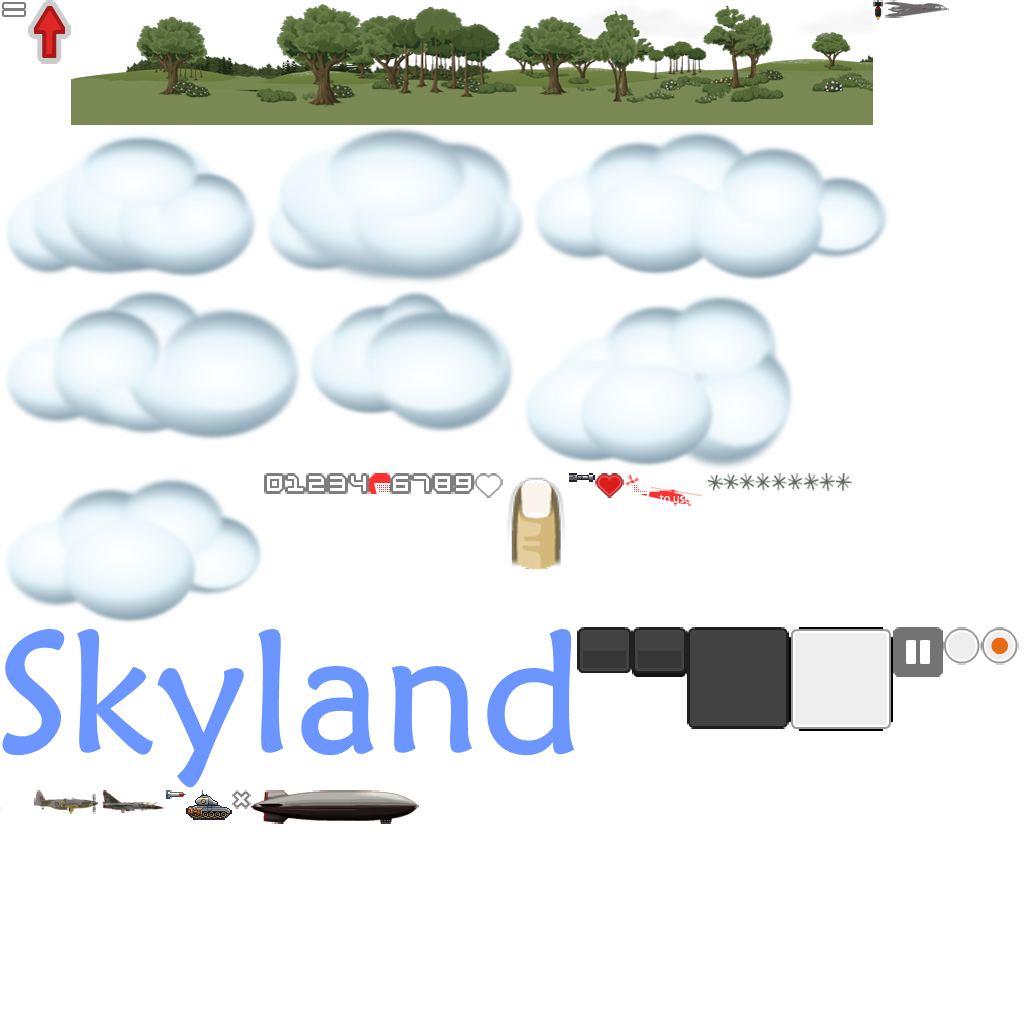
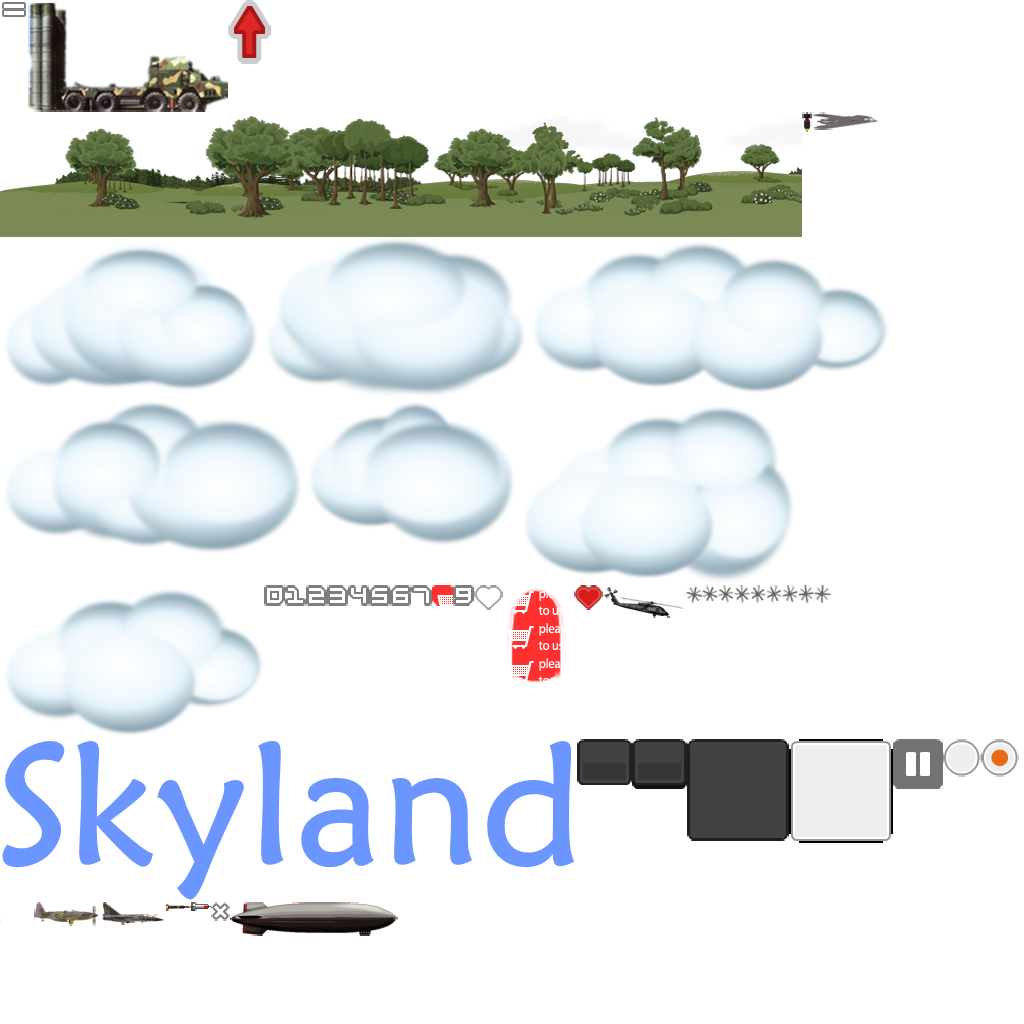
更新启动log,更新导弹发射车及导弹图片，更改导弹发射方式。

diff --git a/Skyland/core/src/com/skylandgdx/main/SkylandAssets.java b/Skyland/core/src/com/skylandgdx/main/SkylandAssets.java
@@ -31,7 +31,7 @@ public class SkylandAssets
     public static Texture textureBlank;
 
     public static TextureRegion textureBackground;
-    public static TextureRegion textureLogo;
+    public static Texture textureLogo;
 
     public static NinePatch textureHudButtonA;
     public static NinePatch textureHudButtonN;
@@ -103,13 +103,15 @@ public class SkylandAssets
         SkylandAssets.textureBlank = new Texture(Gdx.files.internal("images/blank.png"));
         SkylandAssets.textureBlank.setWrap(Texture.TextureWrap.Repeat, Texture.TextureWrap.Repeat);
 
+        SkylandAssets.textureLogo = new Texture(Gdx.files.internal("images/bg_log.png"));
+        SkylandAssets.textureLogo.setWrap(Texture.TextureWrap.Repeat, Texture.TextureWrap.Repeat);
         // texture atlas
      //   TextureAtlas atlas = new TextureAtlas(Gdx.files.internal("images/images.atlas"));
         TextureAtlas atlas = new TextureAtlas(Gdx.files.internal("images/image.txt"));
         
         // textures
         SkylandAssets.textureBackground = atlas.findRegion("bg");
-        SkylandAssets.textureLogo = atlas.findRegion("logo");
+      //  SkylandAssets.textureLogo = atlas.findRegion("logo");
         
         SkylandAssets.textureHudDigits = atlas.findRegions("digit");
         SkylandAssets.textureHudX = atlas.findRegion("x");
@@ -135,8 +137,8 @@ public class SkylandAssets
         );
 
         SkylandAssets.textureGun = atlas.findRegion("gun");
-        SkylandAssets.textureShell = atlas.findRegion("shell");
-        SkylandAssets.textureTank = atlas.findRegion("tank");
+        SkylandAssets.textureShell = atlas.findRegion("rocket");
+        SkylandAssets.textureTank = atlas.findRegion("S300");
 
         SkylandAssets.texturePlane1 = atlas.findRegion("plane1");
         SkylandAssets.texturePlane2 = atlas.findRegion("plane2");

diff --git a/Skyland/core/src/com/skylandgdx/game/entities/StartingScreen.java b/Skyland/core/src/com/skylandgdx/game/entities/StartingScreen.java
@@ -3,6 +3,7 @@ package com.skylandgdx.game.entities;
 import com.badlogic.gdx.graphics.Color;
 import com.badlogic.gdx.graphics.g2d.BitmapFont;
 import com.badlogic.gdx.graphics.g2d.SpriteBatch;
+import com.skylandgdx.game.entities.decorations.Cloud;
 import com.skylandgdx.lib.*;
 import com.skylandgdx.lib.input.IGameInput;
 import com.skylandgdx.main.SkylandAssets;
@@ -60,13 +61,22 @@ public class StartingScreen extends GameEntityMenu
     {
         if (layer == GameLayers.LayerHud)
         {
+        
             batch.setColor(new Color(1, 1, 1, logoTransparency));
-            batch.draw(
+           /* batch.draw(
                     SkylandAssets.textureLogo,
                     (GameSettings.getCameraWidth() - SkylandAssets.textureLogo.getRegionWidth()) / 2,
                     (GameSettings.getCameraHeight() - SkylandAssets.textureLogo.getRegionHeight()) / 2 + 50,
                     SkylandAssets.textureLogo.getRegionWidth(),
                     SkylandAssets.textureLogo.getRegionHeight()
+            );*/
+            float scale = 1f;
+            batch.draw(
+                    SkylandAssets.textureLogo,
+                    0,0,
+                    scale *SkylandAssets.textureLogo.getWidth(),
+                    scale *SkylandAssets.textureLogo.getHeight()
+                    
             );
             SkylandAssets.fontPrimeRegular.setColor(new Color(1, 1, 1, transparency));
             SkylandAssets.fontPrimeRegular.drawWrapped(

diff --git a/Skyland/core/src/com/skylandgdx/game/entities/tank/Tank.java b/Skyland/core/src/com/skylandgdx/game/entities/tank/Tank.java
@@ -49,10 +49,10 @@ public class Tank extends GameEntity
         tankRegion = new TextureRegion(SkylandAssets.textureTank);
         gunRegion = new TextureRegion(SkylandAssets.textureGun);
 
-        tankWidth = tankRegion.getRegionWidth();
-        tankHeight = tankRegion.getRegionHeight();
-        gunWidth = gunRegion.getRegionWidth();
-        gunHeight = gunRegion.getRegionHeight();
+        tankWidth = tankRegion.getRegionWidth()/2;
+        tankHeight = tankRegion.getRegionHeight()/2;
+        gunWidth = gunRegion.getRegionWidth()*0;
+        gunHeight = gunRegion.getRegionHeight()*0;
         tankPolygon = new Polygon(new float[]{
                 0, 0,
                 tankWidth, 0,
@@ -136,7 +136,7 @@ public class Tank extends GameEntity
         }
 
         turnedForward = aimPos.x >= gunOriginPos.x;
-        gunOriginPos.x = tankPos.x + tankWidth / 2;
+        gunOriginPos.x = tankPos.x + tankWidth*(turnedForward ? 0 : 1);//设置导弹起始点X坐标
         gunMuzzlePos.x = gunOriginPos.x + gunWidth * (turnedForward ? 1 : -1);
         gunMuzzlePos.y = gunOriginPos.y;
 

diff --git a/Skyland/core/src/com/skylandgdx/lib/TGradient.java b/Skyland/core/src/com/skylandgdx/lib/TGradient.java
@@ -5,11 +5,6 @@ import com.badlogic.gdx.graphics.g2d.SpriteBatch;
 import com.badlogic.gdx.graphics.g2d.TextureRegion;
 import com.skylandgdx.main.SkylandAssets;
 
-/**
- * User: trakos
- * Date: 14.11.13
- * Time: 07:32
- */
 public class TGradient
 {
     static float[] vertices = new float[20];

diff --git a/Skyland/core/src/com/skylandgdx/lib/GameLayers.java b/Skyland/core/src/com/skylandgdx/lib/GameLayers.java
@@ -1,10 +1,5 @@
 package com.skylandgdx.lib;
 
-/**
- * User: trakos
- * Date: 14.11.13
- * Time: 05:11
- */
 public enum GameLayers
 {
     LayerPrepareParticles,
